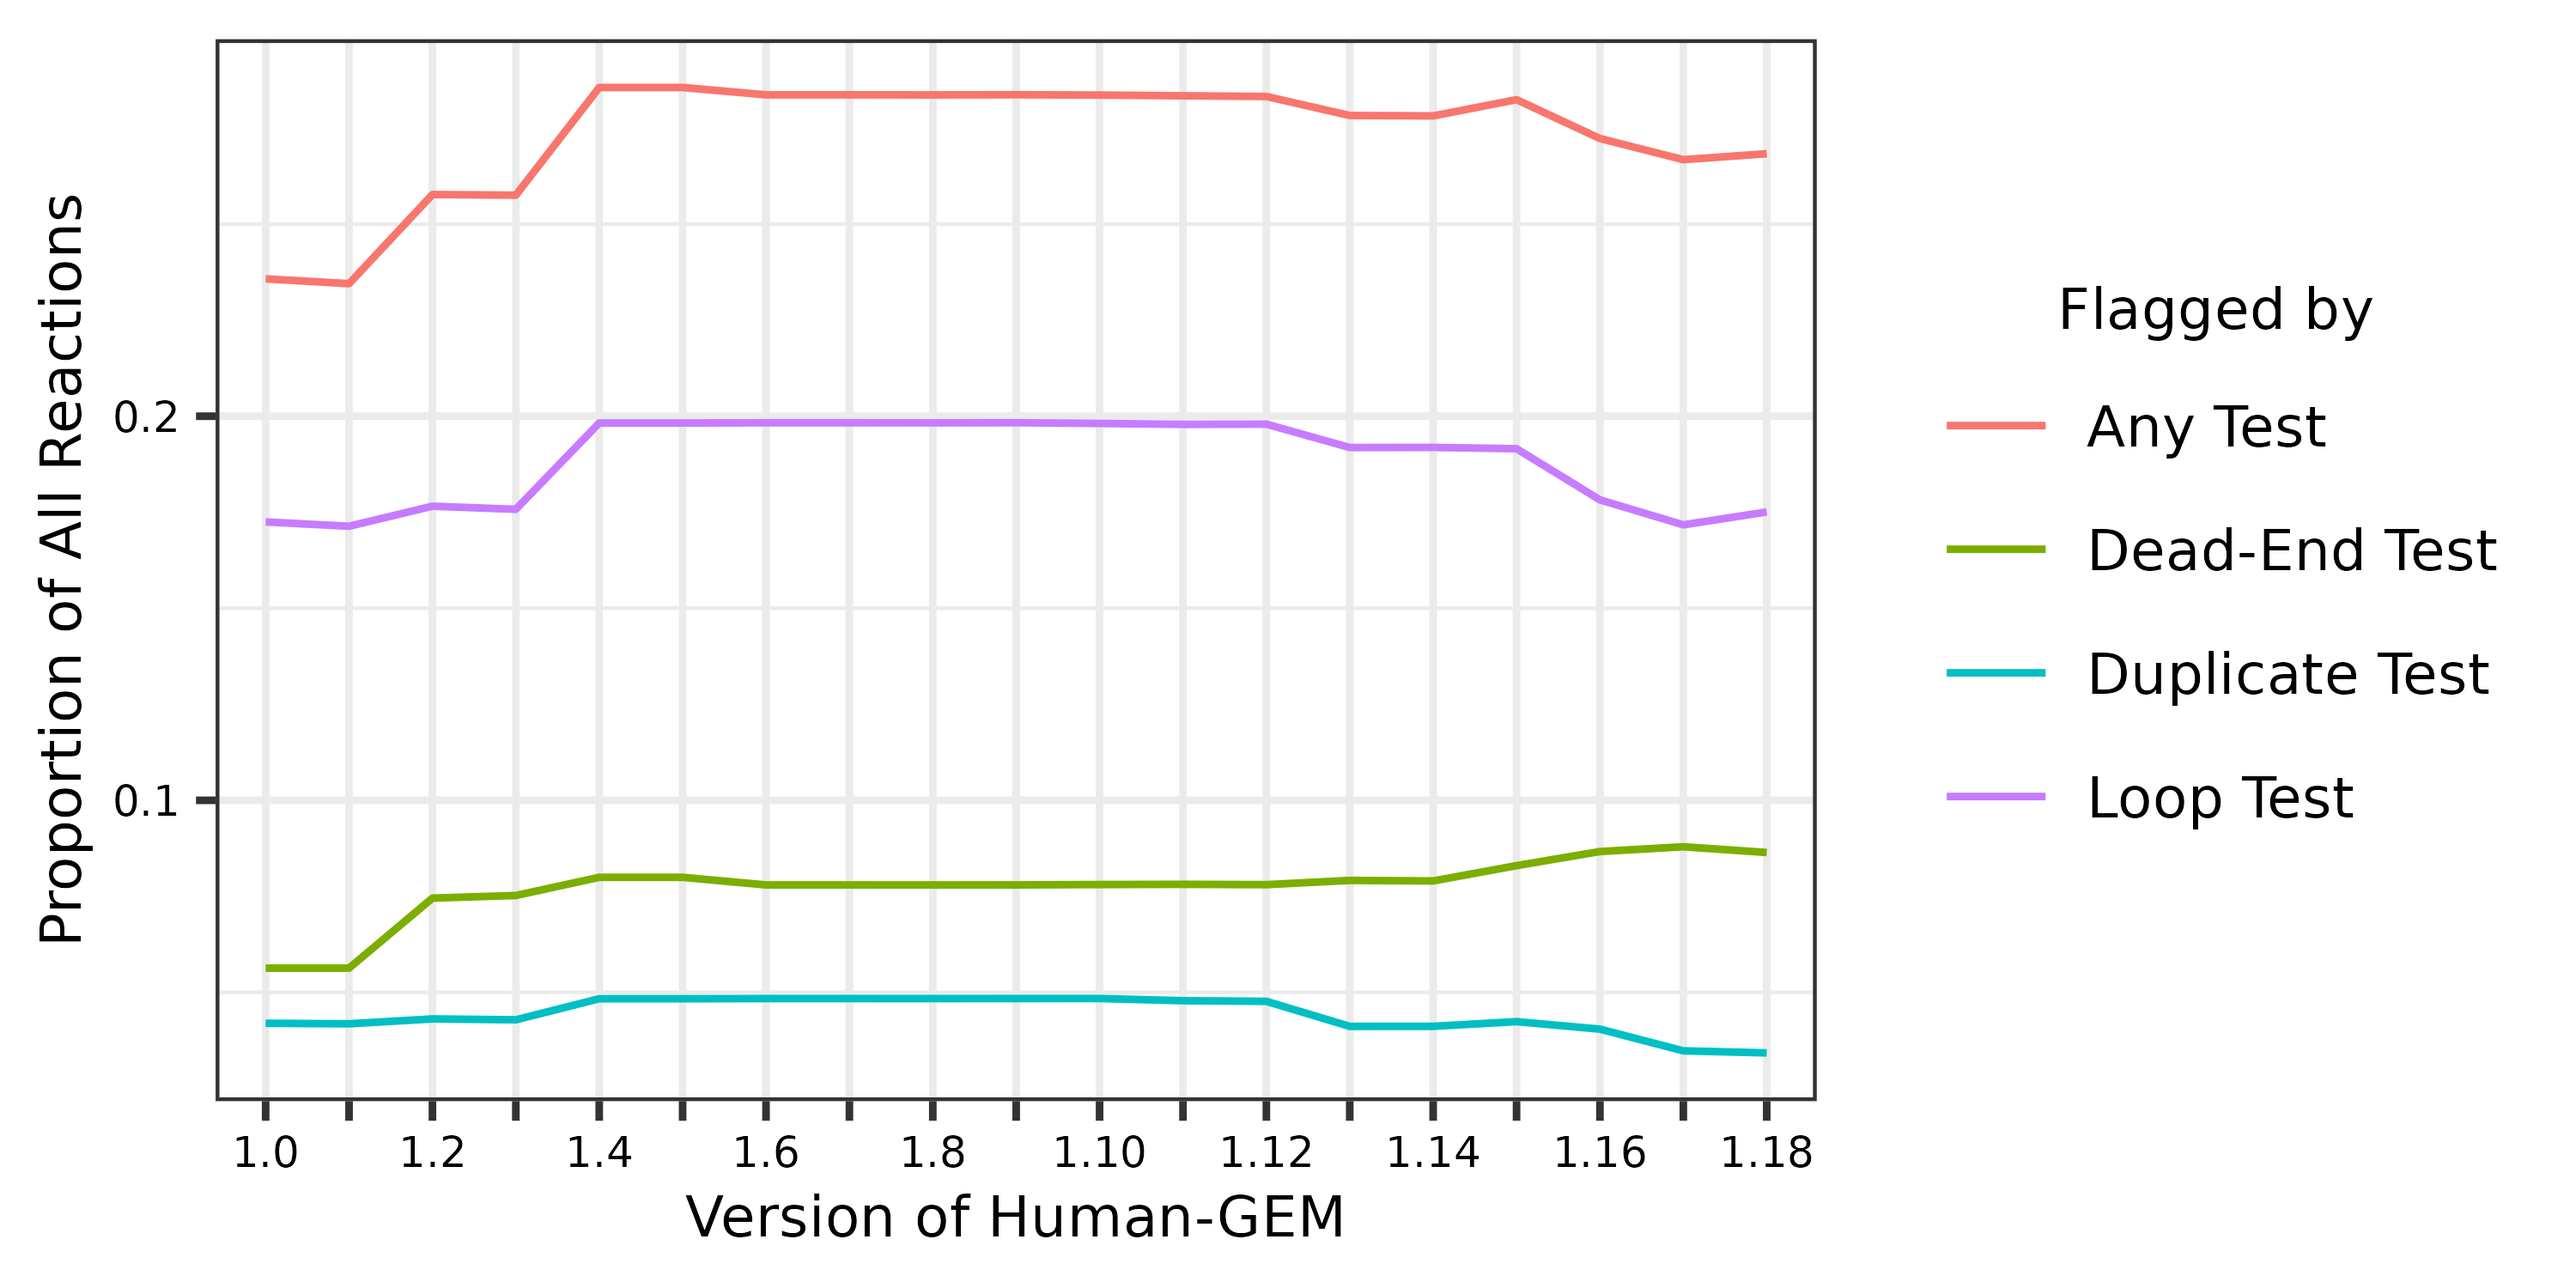
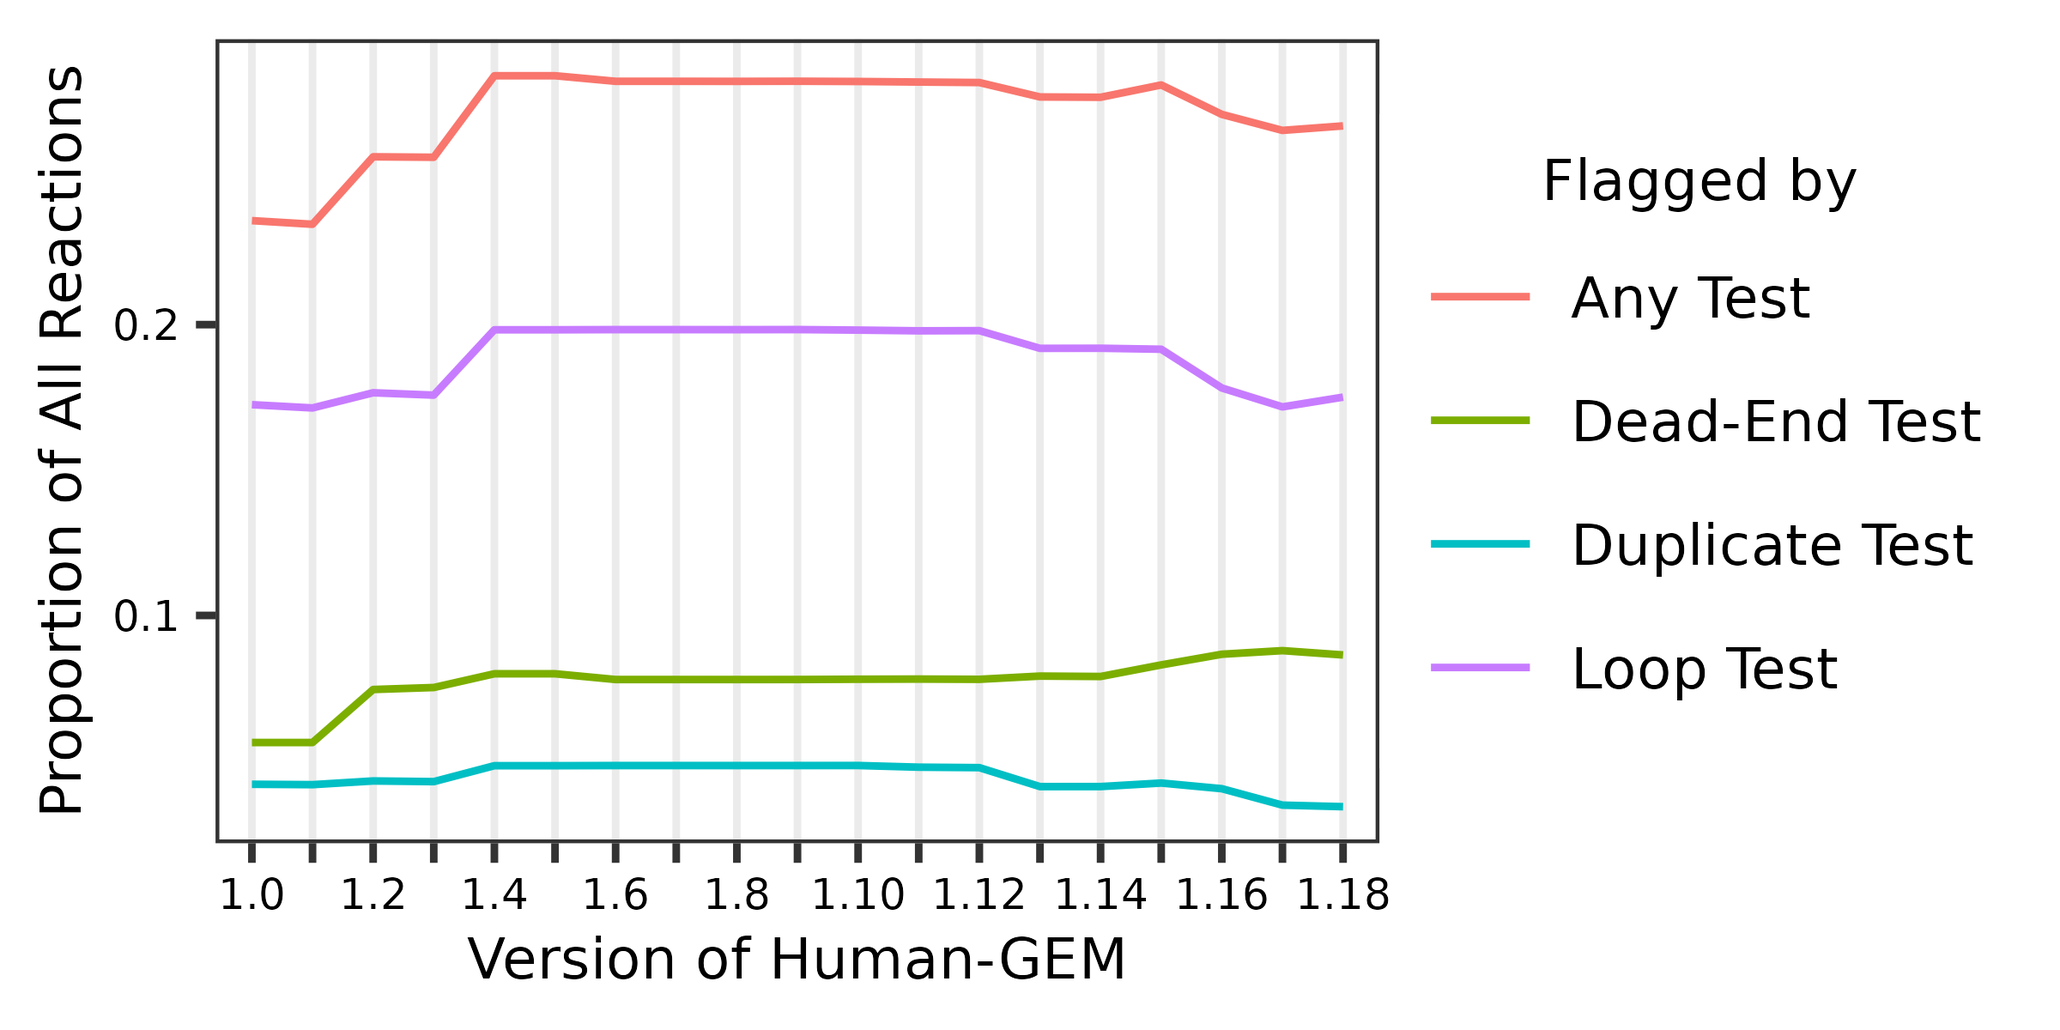
feat: merged all run_tests_on scripts that used ProcessPools to test many models in parallel since they were largely identical and getting increasingly complex. also tweaked other figures slightly

diff --git a/run_tests_on_many.py b/run_tests_on_many.py
@@ -1,4 +1,7 @@
-# run_tests_on_mendoza.py
+# run_tests_on_many.py
+'''
+Run tests on all models in a particular directory
+'''
 
 import time
 from optlang.glpk_interface import Configuration
@@ -7,7 +10,7 @@ import logging
 import os
 from pebble import ProcessPool, ProcessExpired
 import cobra
-from macaw_main import dead_end_test, duplicate_test, loop_test, dilution_test
+from macaw_main import dead_end_test, dilution_test, duplicate_test, loop_test
 from macaw_utils import time_str, simplify_test_results
 import pandas as pd
 
@@ -18,10 +21,9 @@ def handle_one_model(model_path):
     # doesn't have a single input function that automatically figures out the
     # file type from the extension
     if model_path.endswith('mat'):
-        model = cobra.io.load_matlab_model(f'GSMMs/mendoza_2019/{model_path}')
+        model = cobra.io.load_matlab_model(model_path)
     else:
-        model = cobra.io.read_sbml_model(f'GSMMs/mendoza_2019/{model_path}')
-    # TODO: figure out if they all have ATP maintenance reactions
+        model = cobra.io.read_sbml_model(model_path)
     # call tests separately cuz we're skipping the diphosphate test and don't
     # need to bother creating pathways
     (dead_end_results, dead_end_edges) = dead_end_test(
@@ -44,57 +46,73 @@ def handle_one_model(model_path):
     )
     # dead-end and dilution test results were already merged, but get the rest
     all_test_results = duplicates.merge(dilution_results).merge(loops)
-    # just return number of reactions flagged by each test
-    simplified_results = simplify_test_results(all_test_results)
-    dupes = (simplified_results['duplicate_test'] != 'ok').sum()
-    dead_ends = (simplified_results['dead_end_test'] != 'ok').sum()
-    dils = (simplified_results['dilution_test'] != 'ok').sum()
-    loops = (simplified_results['loop_test'] != 'ok').sum()
+    # get the number of all reactions in the model, the number flagged by any
+    # test, and the number flagged by each individual test
     all_rxns = len(model.reactions)
+    simplified_results = simplify_test_results(all_test_results)
+    flagged = len(simplified_results[simplified_results.loc[
+        :, simplified_results.columns.str.contains('test')
+    ].apply(lambda col: col != 'ok', axis = 1).any(axis = 1)])
+    deads = (simplified_results['dead_end_test'] != 'ok').sum()
+    dils = (simplified_results['dilution_test'] != 'ok').sum()
+    dupes = (simplified_results['duplicate_test'] != 'ok').sum()
+    loops = (simplified_results['loop_test'] != 'ok').sum()
     time_msg = time_str(start_time, time.time())
-    return((all_rxns, dupes, dead_ends, dils, loops, time_msg))
+    return((all_rxns, flagged, deads, dils, dupes, loops, time_msg))
 
 setup_start = time.time()
 # silence annoying optlang message that prints when you read in a model
 Configuration()
 # get number of threads to use from command-line
 try:
-    threads = int(sys.argv[1])
+    (direc, out_fname, threads) = sys.argv[1:]
+    threads = int(threads)
 except IndexError:
-    sys.exit('provide number of threads to use')
+    sys.exit('directory containing models, name of output file, # threads')
 # by default, the Cobrapy io functions print a LOT of formatting suggestions for
 # several of these models, and we don't need all those messages cuz we are not
 # here to edit these models in any way, so make sure Cobrapy only prints errors
 logging.getLogger('cobra').setLevel(logging.ERROR)
 
+# get a list of all models in the given directory
+model_paths = [
+    f'{direc}/{f}' for f in os.listdir(direc)
+    if os.path.isfile(f'{direc}/{f}')
+]
 # set up a Pebble ProcessPool to run tests on all models in parallel
-model_paths = os.listdir('GSMMs/mendoza_2019')
 pool = ProcessPool(max_workers = threads)
 future = pool.map(handle_one_model, model_paths)
-iterator = future.result()
 # prepare a dict to track the number of reactions flagged by each test
 out_dict = {
     'model' : list(),
     'all_rxns' : list(),
-    'duplicates' : list(),
+    'flagged' : list(),
     'dead-ends' : list(),
     'dilution-blocked' : list(),
+    'duplicates' : list(),
     'loops' : list()
 }
 # keep track of which model we're on
 i = 0
 print(f'Took {time_str(setup_start, time.time())} to set up')
+iterator = future.result()
 while True:
     try:
         # update dict with numbers from the current model
-        (all_rxns, dupes, dead_ends, dils, loops, time_msg) = next(iterator)
-        out_dict['model'].append(model_paths[i])
+        (all_rxns, flagged, deads, dils, dupes, loops, msg) = next(iterator)
+        model_name = model_paths.split('/')[-1]
+        # if we're doing all versions of Human-GEM, just use the version number
+        # as the model name
+        if 'Human-GEM' in model_name:
+            model_name = model_name.split('v')[-1].split('.xml')[0]
+        out_dict['model'].append(model_name)
         out_dict['all_rxns'].append(all_rxns)
-        out_dict['duplicates'].append(dupes)
-        out_dict['dead-ends'].append(dead_ends)
+        out_dict['flagged'].append(flagged)
+        out_dict['dead-ends'].append(deads)
         out_dict['dilution-blocked'].append(dils)
+        out_dict['duplicates'].append(dupes)
         out_dict['loops'].append(loops)
-        msg = f'Took {time_msg} to test {model_paths[i]} (model {i+1} out of '
+        msg = f'Took {msg} to test {model_name} (model {i+1} out of '
         msg += f'{len(model_paths)})'
         print(msg)
     except StopIteration:
@@ -103,7 +121,7 @@ while True:
     except (Exception, ProcessExpired) as error:
         # if we encounter an error for a particular model, just print which one
         # but continue working on the rest
-        msg = f'Error when testing {model_paths[i]} (model {i+1} out of '
+        msg = f'Error when testing {model_name} (model {i+1} out of '
         msg += f'{len(model_paths)}): {error}'
         # some errors don't come with tracebacks, but if this does, print it
         if hasattr(error, 'traceback'):
@@ -116,4 +134,4 @@ while True:
 pool.close()
 pool.join()
 # turn the dict into a Pandas DataFrame and write to CSV
-pd.DataFrame(out_dict).to_csv('figure_data/fig_mendoza.csv', index = False)
+pd.DataFrame(out_dict).to_csv(f'figure_data/fig_{out_fname}.csv', index = False)
